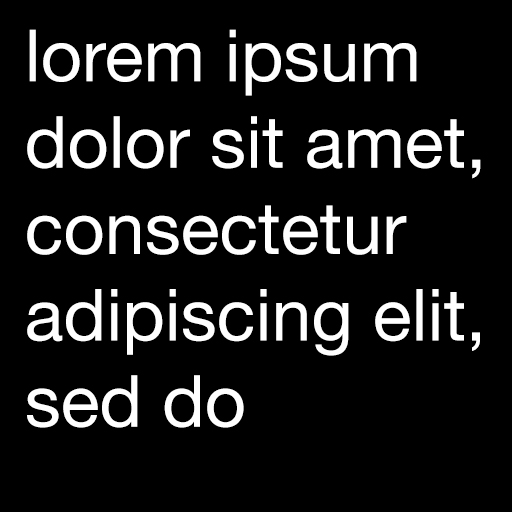
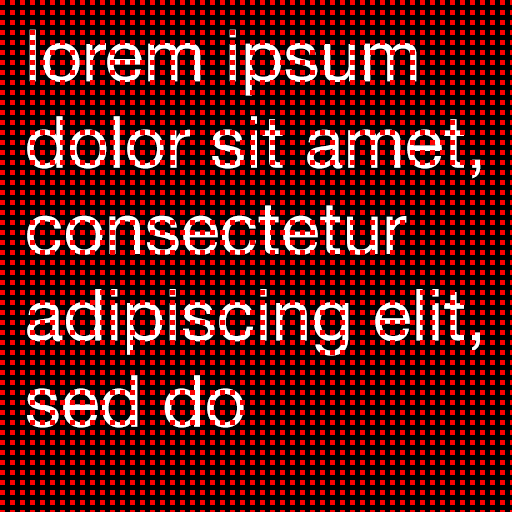
no message

Changed region(s): [[0.0, 0.0, 1.0, 1.0]]

diff --git a/pixi - shaders/src/index.js b/pixi - shaders/src/index.js
@@ -63,11 +63,11 @@ attribute vec2 aUvs;
 uniform mat3 translationMatrix;
 uniform mat3 projectionMatrix;
 
-varying vec2 vUvs;
+varying vec2 u_uvs;
 
 void main() {
 
-  vUvs = aUvs;
+  u_uvs = aUvs;
   vec3 pos =vec3(aVertexPosition, 1.0);
   vec4 totalPos=vec4((projectionMatrix * translationMatrix * pos).xy, 0.0, 1.0);
   gl_Position = totalPos;
@@ -78,7 +78,7 @@ const fragmentSrc = `
 
 precision mediump float;
 
-varying vec2 vUvs;
+varying vec2 u_uvs;
 
 uniform sampler2D uSampler2;
 uniform float u_time;
@@ -91,44 +91,40 @@ float map(float value, float x1, float y1, float x2, float y2) {
 
 
 void main() {
-  //convert to 0 - 1 
-  //gradient black to white
   float max=1.;
   float min=-1.*(max);
-  float distortFactor=cos(u_time*5.)*max;
-
-
-  
+  float distortFactor=cos(u_time*.55)*max;
   float normalised= map(distortFactor,min,max,0.,1. );
 
 
-  float times=5.;// * (normalised);
-  vec2 direction=vec2(0.,fract(vUvs.y*vUvs.y));
-
-  //distort the uv
-  // gl_FragColor = texture2D(uSampler2, vUvs - vUvs * direction * normalised * 2.95);
+  float times=5.;//* (normalised);
 
   
-  gl_FragColor = texture2D(uSampler2,  fract(vUvs * times)  );
-  gl_FragColor = texture2D(uSampler2, vUvs - fract(vUvs * times) * normalised * 0.1 );
+  // gl_FragColor = texture2D(uSampler2,  fract(u_uvs * times)  );
+  // gl_FragColor = texture2D(uSampler2, u_uvs - fract(u_uvs * times) * normalised * 0.1 );
 
+  float intensity=1.0;
+  float dispFactor=(1.-u_uvs.y);
+  float currentDisplacment =dispFactor*intensity;
+  float pixelOffset= 0.95*currentDisplacment;//*0.2;
 
-
-  //strecth and multiply
-  vec2 multiply= vec2(11.,0.);
+  float radius=0.5;
+  float xpos=0.5;//0.5+cos(u_time)*radius;
+  float ypos=0.5+sin(u_time)*radius;
   
-  // gl_FragColor = texture2D(uSampler2, vUvs - multiply * normalised * .1 );
 
-  vec2 repeat=fract(times*vUvs);
-  repeat.x+=vUvs.x*vUvs.y;
-  repeat.y+=vUvs.x*vUvs.y;
-  vec4 color=texture2D(uSampler2,repeat);
-  // gl_FragColor = color;
-  // gl_FragColor = vec4(color.x,color.y,1.0,1.0);
+  float distFromCenter = distance(u_uvs.xy, vec2(xpos,0.5+sin(u_time)*radius));
+  pixelOffset=(distFromCenter)*0.8;
 
-  // vec2 uv=vUvs - vUvs * vec2(1.,0.0) * normalised * 0.5;
-  // uv.x=vUvs.x;
-  // gl_FragColor = texture2D(uSampler2, uv);
+
+  vec4 image=texture2D(uSampler2, vec2(u_uvs.x+pixelOffset, u_uvs.y));
+  vec4 debug =vec4(pixelOffset,pixelOffset,pixelOffset,1.0);
+
+  gl_FragColor = mix(image,debug,0.9);
+  // gl_FragColor=vec4(pixelOffset,pixelOffset,pixelOffset,1.0);
+
+
+
 
 }`;
 
